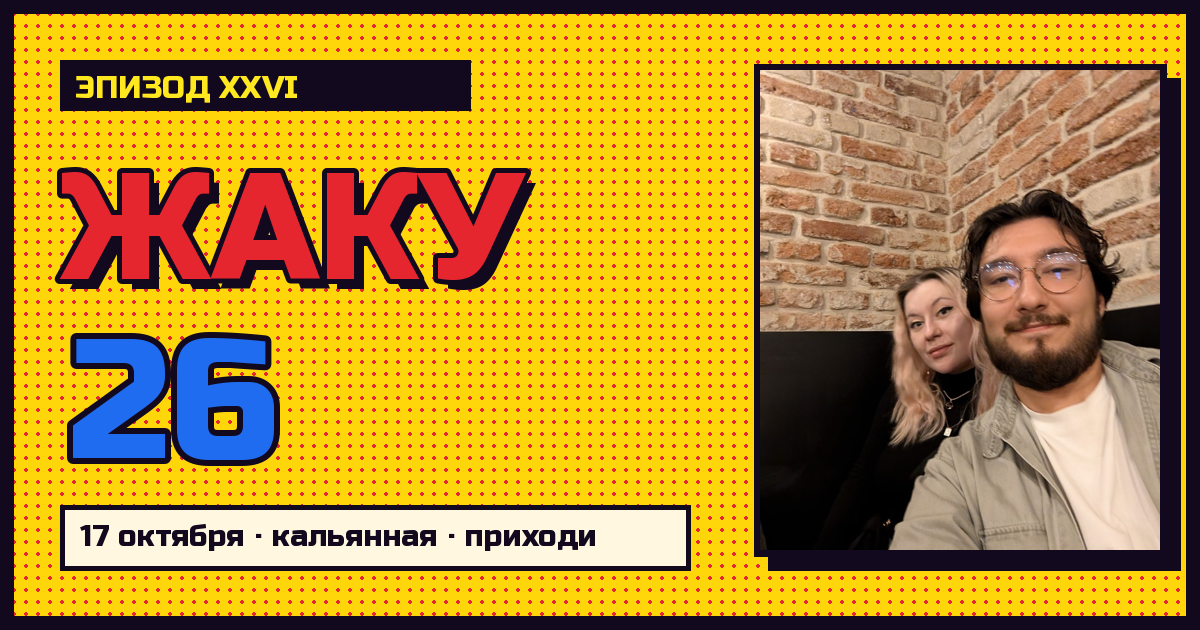
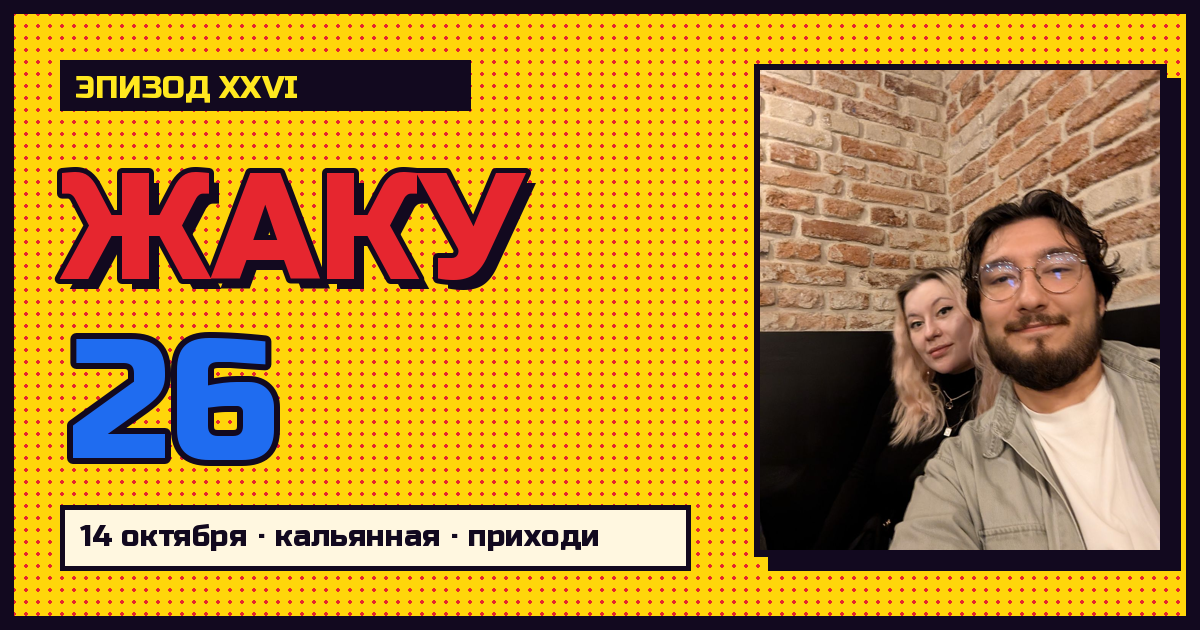
Set party date to 14 October

Changed region(s): [[0.0617, 0.8143, 0.4933, 0.8746]]

diff --git a/src/config.ts b/src/config.ts
@@ -2,7 +2,7 @@
 export const config = {
   age: 26,
   episode: 'XXVI',
-  dateText: '17 октября, суббота',   // TODO: точная дата
+  dateText: '14 октября, среда',
   timeText: 'с 19:00',                // TODO
   venue: 'Кальянная',                 // TODO: название
   address: 'адрес скину в чат',       // TODO: адрес
